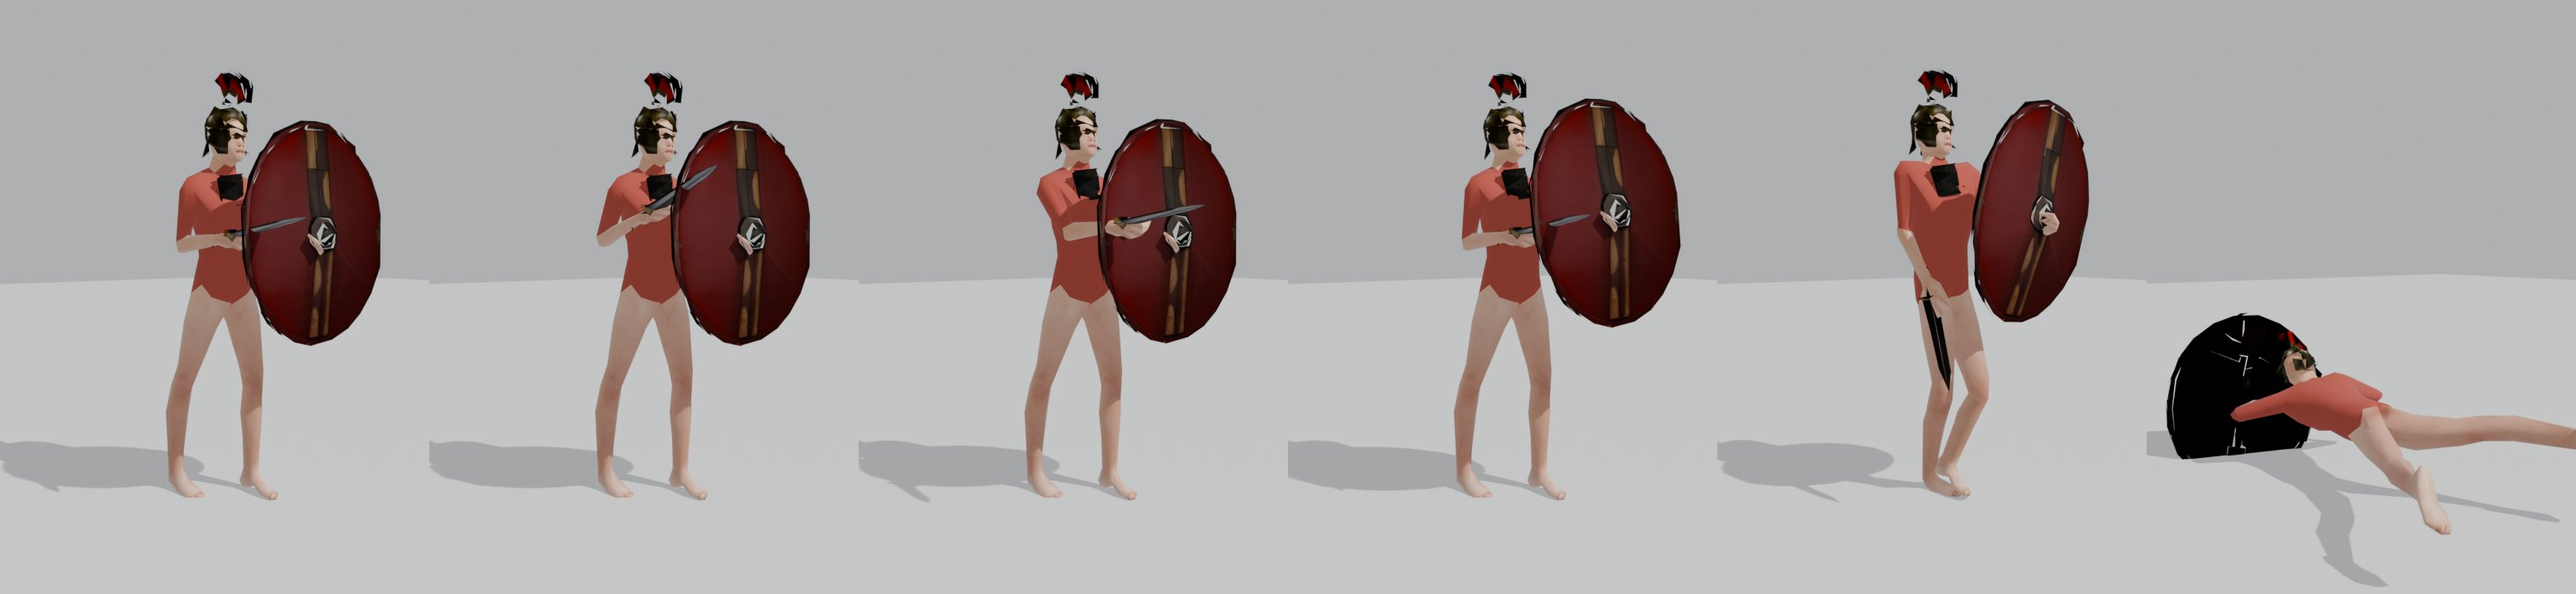
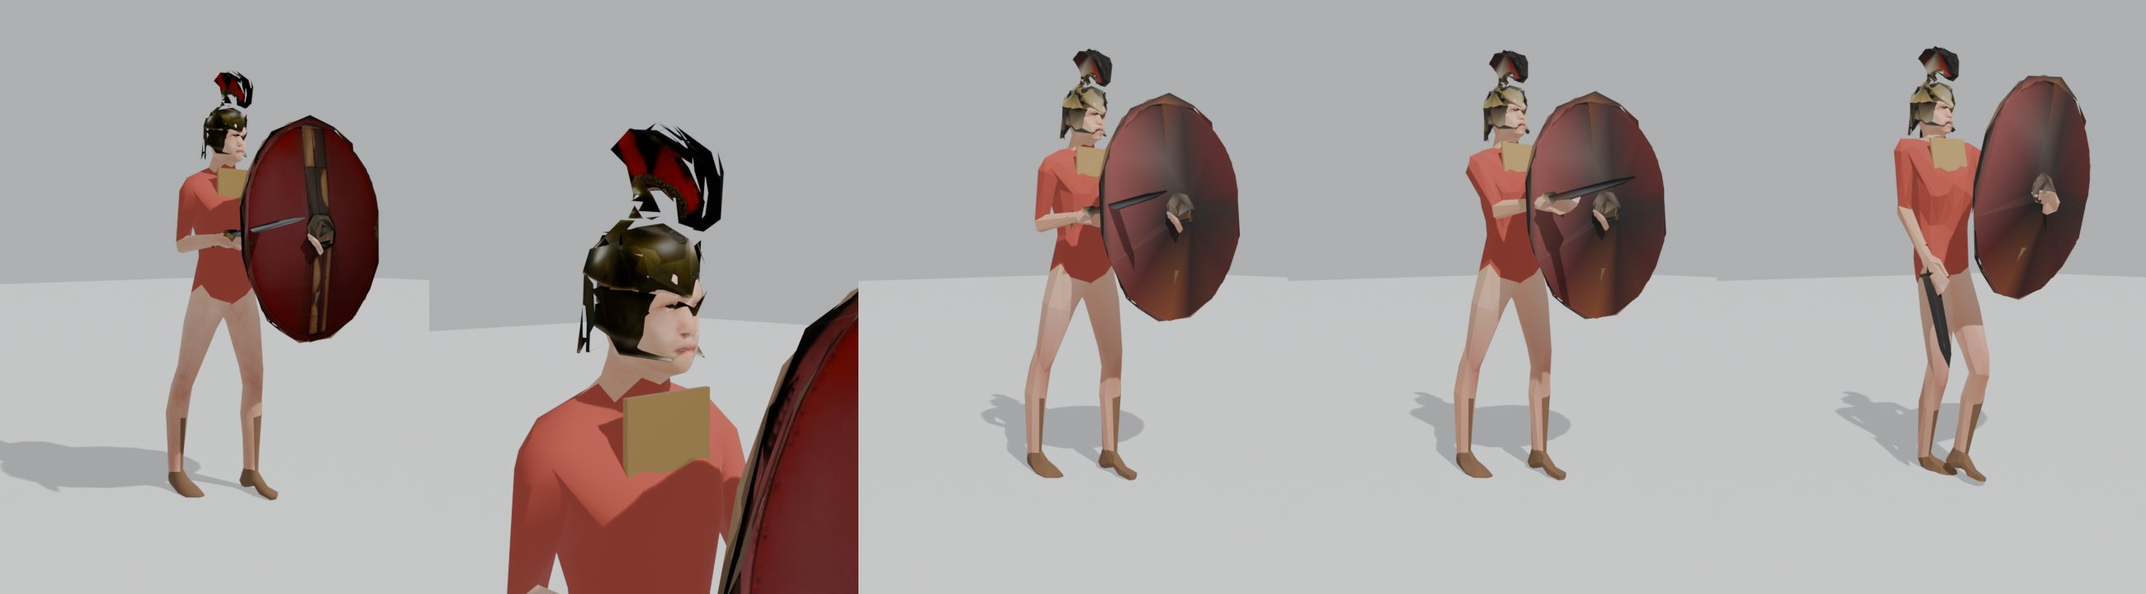
Figuren: Hastatus verfeinert, backen.py schreibt Farben je Ecke, Paket-Nachbau zur Prüfung

diff --git a/dev/pc/blender/soldat_bau.py b/dev/pc/blender/soldat_bau.py
@@ -51,6 +51,25 @@ for p in body.data.polygons:
         if all(body.data.vertices[i].co.z > 0.47 * hmax for i in vs):
             p.material_index = ti
 
+# Sandalen (Füße) und Haare (Oberkopf/Hinterkopf)
+def mat(name, rgb, metall=0.0, rau=0.85):
+    m = bpy.data.materials.new(name); m.use_nodes = True
+    b = m.node_tree.nodes["Principled BSDF"]
+    b.inputs["Base Color"].default_value = (*rgb, 1); b.inputs["Metallic"].default_value = metall
+    b.inputs["Roughness"].default_value = rau
+    return m
+body.data.materials.append(mat("sandale", (0.16, 0.08, 0.035))); si_ = len(body.data.materials) - 1
+body.data.materials.append(mat("haar", (0.035, 0.022, 0.015))); hi_ = len(body.data.materials) - 1
+FUSS = {"LeftFoot", "LeftToeBase", "RightFoot", "RightToeBase"}
+kopfv = [i for i, g in enumerate(haupt) if g in ("Head", "Neck1")]
+kopf_y = sum(body.data.vertices[i].co.y for i in kopfv) / max(1, len(kopfv))
+for p in body.data.polygons:
+    vs = p.vertices
+    if sum(1 for i in vs if haupt[i] in FUSS) >= len(vs) / 2:
+        p.material_index = si_
+    elif all(haupt[i] in ("Head",) for i in vs) and all(body.data.vertices[i].co.z > 0.935 * hmax and body.data.vertices[i].co.y > kopf_y - 0.004 * hmax for i in vs):
+        p.material_index = hi_
+
 # ---------- Pose-Werkzeug ----------
 for pb in arm.pose.bones:
     pb.rotation_mode = "QUATERNION"
@@ -205,7 +224,7 @@ haltung(BEREIT)
 koerper_P = np.array([(body.matrix_world @ v.co)[:] for v in body.evaluated_get(bpy.context.evaluated_depsgraph_get()).to_mesh().vertices])
 kopf_oben = koerper_P[:, 2].max()
 
-helm = lade("roh_44/teil_helm_A1_montefortino.glb", "teil_helm_A1_montefortino", 160, staender=0.09)
+helm = lade("roh_44/teil_helm_A1_montefortino.glb", "teil_helm_A1_montefortino", 260, staender=0.09)
 P, c, ax = pca(helm)
 z = P[:, 2]; zb = np.linspace(z.min(), z.max(), 21)
 bx = [np.ptp(P[(z >= zb[k]) & (z <= zb[k + 1])][:, 0]) if ((z >= zb[k]) & (z <= zb[k + 1])).sum() > 3 else 0 for k in range(20)]
@@ -222,14 +241,24 @@ print("HELM", round(s, 3), "Busch ab Schicht", kt)
 m = helm.matrix_world.copy(); helm.parent = arm; helm.parent_type = "BONE"; helm.parent_bone = "Head"
 bpy.context.view_layer.update(); helm.matrix_world = m
 
-brust = lade("roh_45/teil_ruest_A1_pectorale.glb", "teil_ruest_A1_pectorale", 40)
+# Pectorale: flache viereckige Bronzeplatte (≈ 20 × 20 cm, Funde 3. Jh. v. Chr.), selbst gebaut – 12 Dreiecke
+bpy.ops.mesh.primitive_cube_add(size=1)
+brust = bpy.context.active_object; brust.name = "teil_ruest_A1_pectorale"
+brust.scale = (0.2, 0.012, 0.2); bpy.ops.object.transform_apply(scale=True)
 s1 = kp("Spine1", 0.5)
 vorne = koerper_P[(np.abs(koerper_P[:, 2] - s1.z) < 0.06) & (np.abs(koerper_P[:, 0]) < 0.06)][:, 1].min()
-setze_teil(brust, (Vector((1, 0, 0)), Vector((0, -1, 0))), Vector((0, vorne - 0.012, s1.z)), 0.22, "Spine1")
+brust.location = (0, vorne - 0.008, s1.z); bpy.context.view_layer.update()
+m = brust.matrix_world.copy(); brust.parent = arm; brust.parent_type = "BONE"; brust.parent_bone = "Spine1"
+bpy.context.view_layer.update(); brust.matrix_world = m
+brust.data.materials.clear(); brust.data.materials.append(mat("bronze", (0.43, 0.27, 0.09), metall=0.8, rau=0.45))
 
-schild = lade("roh_45/teil_schild_A1_scutum.glb", "teil_schild_A1_scutum", 260)
+schild = lade("roh_45/teil_schild_A1_scutum.glb", "teil_schild_A1_scutum", 200)
 hand_l = kp("LeftHand", 0.5)
 setze_teil(schild, (Vector((0, 0, 1)), Vector((0, -1, 0))), hand_l + Vector((0.02, -0.07, 0.05)), 1.05, "LeftHand", buckel=True)
+schild.data.materials.append(mat("schild_innen", (0.15, 0.08, 0.04))); ii_ = len(schild.data.materials) - 1
+R3 = schild.matrix_world.to_3x3()
+for p in schild.data.polygons:
+    if (R3 @ p.normal).normalized().dot(Vector((0, -1, 0))) < -0.2: p.material_index = ii_
 
 schwert = lade("roh_45/teil_schwert_A1_gladius.glb", "teil_schwert_A1_gladius", 70)
 P, c, ax = pca(schwert)
@@ -289,6 +318,10 @@ if VORSCHAU:
         cam.location = (hw.x - 2.3, hw.y - 2.9, 1.25)
         sc.render.filepath = VORSCHAU.replace(".png", "_%d.png" % i)
         bpy.ops.render.render(write_still=True)
+    nimm("stehen_bereit"); sc.frame_set(1)
+    kz = arm.matrix_world @ arm.pose.bones["Head"].head
+    cam.location = (kz.x - 0.9, kz.y - 1.0, kz.z + 0.1); cam.rotation_euler = (math.radians(88), 0, math.radians(-42))
+    sc.render.filepath = VORSCHAU.replace(".png", "_kopf.png"); bpy.ops.render.render(write_still=True)
 
 # ---------- Export ----------
 nimm("stehen"); sc.frame_set(1)

diff --git a/dev/pc/blender/backen.py b/dev/pc/blender/backen.py
@@ -6,7 +6,8 @@
 #   anim: Float32-Textur, Breite = Knochen × 4 Pixel (RGBA), Höhe = Summe aller Clip-Bilder.
 #         Je Knochen und Bild eine 4×4-Skinmatrix (Weltpose × inverse Ruhepose), spaltenweise (wie three.js Matrix4.elements).
 #   Koordinaten: three.js (Y oben). Blender (Z oben) wird umgerechnet: (x, y, z) → (x, z, −y).
-#   koerper/teile: Ruhepose-Positionen, Normalen, Dreiecke, je Ecke 4 Knochen + 4 Gewichte (Teile: starr an einem Knochen).
+#   koerper/teile: Ruhepose-Positionen, Normalen, Dreiecke, je Ecke 4 Knochen + 4 Gewichte (Teile: starr an einem Knochen),
+#         'col' je Ecke RGB (u8, sRGB) aus Grundfarb-Textur bzw. Materialfarbe (Mittel der angrenzenden Flächenecken).
 #   Detailstufen: 'nah' (Original) und 'mittel' (Decimate auf ≈ 400 bzw. 27 % Dreiecke).
 # Mit --pruefen wird für jeden Clip ein Bild in Blender ausgewertet und mit der eigenen Rechnung verglichen (max. Abweichung in mm).
 import sys, os, json, base64, struct
@@ -40,6 +41,65 @@ def aktion_setzen(arm, act):
     ad.action = act
     if act is not None and hasattr(ad, 'action_slot') and getattr(act, 'slots', None) and len(act.slots):
         ad.action_slot = act.slots[0]
+
+
+_BILDER = {}
+
+
+def _lin2srgb(c):
+    return c * 12.92 if c <= 0.0031308 else 1.055 * c ** (1 / 2.4) - 0.055
+
+
+def _farbquelle(mat):
+    """Bild (Grundfarb-Textur) oder feste Farbe (sRGB 0..1) eines Materials."""
+    if mat is None or not mat.use_nodes:
+        c = mat.diffuse_color if mat else (0.7, 0.7, 0.7, 1)
+        return None, [_lin2srgb(c[i]) for i in range(3)]
+    nodes = mat.node_tree.nodes
+    bsdf = next((n for n in nodes if n.type == 'BSDF_PRINCIPLED'), None)
+    if bsdf:
+        inp = bsdf.inputs['Base Color']
+        if inp.is_linked:
+            stapel, gesehen = [inp.links[0].from_node], set()
+            while stapel:
+                n = stapel.pop()
+                if n.name in gesehen: continue
+                gesehen.add(n.name)
+                if n.type == 'TEX_IMAGE' and n.image: return n.image, None
+                for i in n.inputs:
+                    for l in i.links: stapel.append(l.from_node)
+        else:
+            return None, [_lin2srgb(inp.default_value[i]) for i in range(3)]
+    tex = next((n for n in nodes if n.type == 'TEX_IMAGE' and n.image), None)
+    return (tex.image, None) if tex else (None, [0.7, 0.7, 0.7])
+
+
+def _pixel(img, uv):
+    if img.name not in _BILDER:
+        import numpy as np
+        w, h = img.size
+        a = np.empty(w * h * 4, dtype=np.float32); img.pixels.foreach_get(a)
+        _BILDER[img.name] = (a.reshape(h, w, 4), w, h)
+    a, w, h = _BILDER[img.name]
+    x = int((uv[0] % 1.0) * (w - 1)); y = int((uv[1] % 1.0) * (h - 1))
+    return a[y, x, :3]
+
+
+def farben(ob, me):
+    """Eine Farbe je Ecke (sRGB, 0..255): Mittel der Grundfarbe aller angrenzenden Flächenecken."""
+    quellen = [_farbquelle(s.material) for s in ob.material_slots] or [(None, [0.7, 0.7, 0.7])]
+    uvl = me.uv_layers.active.data if me.uv_layers.active else None
+    summe = [[0.0, 0.0, 0.0, 0] for _ in me.vertices]
+    for p in me.polygons:
+        img, fest = quellen[min(p.material_index, len(quellen) - 1)]
+        for li in p.loop_indices:
+            vi = me.loops[li].vertex_index
+            c = _pixel(img, uvl[li].uv) if (img and uvl) else fest
+            s = summe[vi]; s[0] += c[0]; s[1] += c[1]; s[2] += c[2]; s[3] += 1
+    out = []
+    for s in summe:
+        k = max(1, s[3]); out += [max(0, min(255, round(255 * s[i] / k))) for i in range(3)]
+    return out
 
 
 def mesh_daten(ob, arm, bidx, starr=None, ziel_tris=None):
@@ -77,11 +137,12 @@ def mesh_daten(ob, arm, bidx, starr=None, ziel_tris=None):
     for t in me.loop_triangles:
         idx += list(t.vertices)
     ntri = len(me.loop_triangles)
+    col = farben(src, me)
     ev.to_mesh_clear()
     if tmp:
         bpy.data.objects.remove(tmp, do_unlink=True)
     return {'n': len(pos) // 3, 'tris': ntri, 'pos': b64f(pos), 'nrm': b64f(nrm), 'idx': b64u16(idx),
-            'si': b64u8(si), 'sw': b64u8(sw)}, (pos, si, sw)
+            'si': b64u8(si), 'sw': b64u8(sw), 'col': b64u8(col)}, (pos, si, sw)
 
 
 def backen(ein, aus, pruefen=False):

diff --git a/dev/pc/blender/paket_ansehen.py b/dev/pc/blender/paket_ansehen.py
@@ -1,0 +1,66 @@
+# Baut eine Figur aus einem Spielpaket (backen.py) nach – nur Ecken-Farben, keine Texturen – und rendert sie.
+# So sieht man, was das Spiel bekommt. Aufruf: blender -b -P paket_ansehen.py -- paket.json bild.png [clip] [bild]
+import bpy, sys, json, base64, struct, math
+from mathutils import Matrix
+
+a = sys.argv[sys.argv.index("--") + 1:]
+P = json.load(open(a[0])); OUT = a[1]
+CLIP = a[2] if len(a) > 2 else "stehen_bereit"; BILD = int(a[3]) if len(a) > 3 else 0
+f32 = lambda s: struct.unpack("<%df" % (len(base64.b64decode(s)) // 4), base64.b64decode(s))
+u8 = lambda s: base64.b64decode(s)
+u16 = lambda s: struct.unpack("<%dH" % (len(base64.b64decode(s)) // 2), base64.b64decode(s))
+
+bpy.ops.wm.read_factory_settings(use_empty=True)
+sc = bpy.context.scene
+anim = f32(P["anim"]["f32"]); W = P["anim"]["w"]; nb = len(P["bones"])
+clip = next(c for c in P["clips"] if c["n"] == CLIP)
+row = clip["row"] + min(BILD, clip["len"] - 1)
+def skin(b):
+    o = (row * W + b * 4) * 4
+    e = anim[o:o + 16]
+    return Matrix([[e[c * 4 + r] for c in range(4)] for r in range(4)])
+SK = [skin(b) for b in range(nb)]
+T = Matrix(((1, 0, 0, 0), (0, 0, -1, 0), (0, 1, 0, 0), (0, 0, 0, 1)))  # three.js -> Blender
+
+mat = bpy.data.materials.new("ecken"); mat.use_nodes = True
+nt = mat.node_tree; att = nt.nodes.new("ShaderNodeVertexColor"); att.layer_name = "col"
+nt.links.new(att.outputs["Color"], nt.nodes["Principled BSDF"].inputs["Base Color"])
+nt.nodes["Principled BSDF"].inputs["Roughness"].default_value = 0.85
+
+def baue(name, d, starr=None):
+    pos = f32(d["pos"]); idx = u16(d["idx"]); col = u8(d["col"])
+    si = u8(d["si"]); sw = u8(d["sw"]); n = d["n"]
+    vs = []
+    for i in range(n):
+        from mathutils import Vector
+        p = Vector((pos[3 * i], pos[3 * i + 1], pos[3 * i + 2], 1.0))
+        if starr is not None:
+            q = SK[starr] @ p
+        else:
+            q = Vector((0.0, 0.0, 0.0, 0.0))
+            for k in range(4):
+                if sw[4 * i + k]: q += (SK[si[4 * i + k]] @ p) * (sw[4 * i + k] / 255.0)
+            if not any(sw[4 * i:4 * i + 4]): q = p
+        q = T @ q
+        vs.append((q.x, q.y, q.z))
+    me = bpy.data.meshes.new(name)
+    me.from_pydata(vs, [], [tuple(idx[3 * t:3 * t + 3]) for t in range(len(idx) // 3)])
+    ca = me.color_attributes.new("col", "BYTE_COLOR", "POINT")
+    for i in range(n):
+        ca.data[i].color_srgb = (col[3 * i] / 255, col[3 * i + 1] / 255, col[3 * i + 2] / 255, 1)
+    me.materials.append(mat)
+    ob = bpy.data.objects.new(name, me); sc.collection.objects.link(ob)
+    return ob
+
+for k, v in P["koerper"].items(): baue(k, v["nah"])
+for k, v in P["teile"].items(): baue(k, v["nah"], starr=v["knochen"])
+cam = bpy.data.objects.new("cam", bpy.data.cameras.new("cam")); sc.collection.objects.link(cam); sc.camera = cam
+cam.location = (-2.3, -2.9, 1.15); cam.rotation_euler = (math.radians(86), 0, math.radians(-38)); cam.data.lens = 45
+sun = bpy.data.objects.new("sun", bpy.data.lights.new("sun", "SUN")); sc.collection.objects.link(sun)
+sun.rotation_euler = (math.radians(45), 0, math.radians(-20)); sun.data.energy = 3.5
+bpy.ops.mesh.primitive_plane_add(size=40)
+sc.world = bpy.data.worlds.new("w"); sc.world.use_nodes = True
+sc.world.node_tree.nodes["Background"].inputs[0].default_value = (0.55, 0.57, 0.6, 1)
+sc.render.engine = "BLENDER_EEVEE"; sc.render.resolution_x, sc.render.resolution_y = 520, 720
+sc.render.filepath = OUT; bpy.ops.render.render(write_still=True)
+print("PAKETBILD", OUT, CLIP, BILD)

diff --git a/dev/BACKLOG.md b/dev/BACKLOG.md
@@ -12,7 +12,7 @@
 - **Befund Werkzeug:** Blender 5.2 läuft headless in der Cloud (`pip install bpy`), Playwright-Tests laufen in der Cloud mit Chromium aus npm (`@sparticuz/chromium`, `PW_CHROMIUM=/tmp/chromium`). Skelette/Animationen/Backen können in der Cloud gebaut werden; PC nur noch für FLUX/XTTS/TRELLIS. Ausgangsdaten (Grundkörper, Bewegungen) brauchen Freigabe je Quelle.
 - **Schlacht-Profile (Sonnet, ungeprüft durch Moritz):** `dev/schlacht/` – 333 Truppenprofile (108 Sonder + 225 Grund), 20 Kit-Familien, 176 Charaktere (161 ohne Porträt → FLUX-Porträts nötig). Grob: M3 (Ostrom/Orient/Steppe, 67 Einheiten) und O1 (Ostasien, 48) sind zu breit für realistischen Stil → beim Rollout teilen. Befunde: sc_pachacutec_x1 zeigt römischen Soldaten; Dschingis Khan doppelt in SC_LEG (mongolen/temujin); zeitlich unpassende Figuren im Szenario kastilien (Hardrada, Håkon Jarl, Moctezuma, Atahualpa) prüfen; keine österreichische/schwedische Einheit für Leibwachen.
 - **29.10. abends:** Jobs 40–43 laufen in der Warteschlange (Repo vorher per Pull auf v218). Antike-Kits A1–A8 von Moritz freigegeben → **Job 44_ausruestung_antike** (36 FLUX-Vorlagen, 18 feste Teile, Skript `dev/pc/ausruestung_antike.js`, Namen `teil_<art>_<kit>_<name>`, Budget je 1500/Textur 512 in `3d/a5_budget.json`, Sicherung `a5_budget_vor44.json`). Danach: Auswahl a/b → `3d/vorlagen_44/<id>.png`, dann `3d/44_ok.txt` anlegen; `3d_44.bat` (Moritz startet per Doppelklick) wartet auf beides und baut nach `3d/roh_44`. Nicht über TRELLIS, sondern Blender: Speer, Pilum, Sarissa, Wurfspeer, Schleuder, Treiberstachel (lang/dünn) sowie Kettenhemd, Linothorax, Tunika, Elefantendecke (bewegen sich mit). **Stand 21:30:** Jobs 40–44 fertig. Job 44 ausgewählt (Bogen `warteschlange/44_ausruestung_antike/bogen.jpg`, `auswahl.txt`): 13 Teile → TRELLIS fertig (21:26, 5,6 min, `3d/roh_44/*.glb`, 856–1997 Dreiecke; Optik nicht angesehen, r3-Nachbearbeitung offen). Viele Vorlagen stehen auf Museumsständern → nach `sockel.py` Ständerstangen in Blender entfernen. Falsch kamen 5 Teile (A2-Helm korinthisch statt Kegel, Pectorale als Weste, Scutum rund, Gladius mit Parierstange, Falcata gerade) → **Job 45** in der Warteschlange seit 21:30 (`warteschlange/45_ausruestung_neu`, 15 Bilder, `node dev/pc/ausruestung_antike.js <items.json> 45`); danach eigenes `3d_45.bat`. Job 43: `pruef.json` aus Job 28 prüft ALLE alten Clips (525, 108 neu gesprochen nur im Job-Ordner, nicht eingebaut) und läuft vor dem Sprechen → die 7 Hannibal-Clips sind **ungeprüft**; für neue Clips eigene Prüfung nötig. Hinweis: `3d_*.bat` per PowerShell `Start-Process` gestartet fand `environment.bat` nicht – per `cmd /c` oder Doppelklick starten. Versehen: `imperium-bilder\items.json` (alte Datei vom 18.10. für run.bat/probe*.bat, Inhalt unbekannt) wurde mit der Teile-Liste überschrieben – Skripte von damals nicht mehr nutzen.
-- **29.10. 22 Uhr – Figuren baut Claude am PC** (Moritz: „am PC gebaut, nicht aus dem Netz gezogen, aber durch dich“; MPFB + CMU erlaubt). Blender 5.2.3 portable + MPFB 2.0.18 + MakeHuman-Grundpaket installiert, Körpertest headless ok, Skelett `cmu_mb` (31 Knochen, CMU-Namen) gewählt. Job 45 + TRELLIS 5 Teile fertig (`3d/roh_45`, Falcata-Klinge eher Säbel). Alle 18 Antike-Teile roh vorhanden. Details: `dev/pc/figuren_bauen.md` Abschnitt 0. 30.10. früh: **erster vollständiger Hastatus** (soldat_bau.py, 13 Clips, pruefen ok, gebacken 1,29 MB, Bild dev/pc/blender/hastatus_test.jpg). 23:15 erster grober Hastatus (Körper + CMU-Schwertkampf + Helm/Scutum/Gladius/Brustplatte an Knochen, `dev/pc/blender/soldat_teile.py`, Bild `soldat_test.jpg`; Schild zu groß, Lage von Hand, Tunika fehlt). 23 Uhr: 45 CMU-Aufnahmen geladen (Liste dev/pc/blender/cmu_auswahl.tsv; Reiten, Speer, Schild fehlen bei CMU → keyframen). 22:40: CMU Subject 02 geladen, Gehen + Schwertkampf auf den Körper übertragen (Bild `dev/pc/blender/cmu_test.jpg`). Nächstes: Stehen/Treffer/Fallen-Aufnahmen suchen, Schleifen schneiden, `sk_mensch.glb` mit 3 Körpern bauen, `pruefen.py`/`backen.py` daran testen, r3 für die 18 Teile.
+- **29.10. 22 Uhr – Figuren baut Claude am PC** (Moritz: „am PC gebaut, nicht aus dem Netz gezogen, aber durch dich“; MPFB + CMU erlaubt). Blender 5.2.3 portable + MPFB 2.0.18 + MakeHuman-Grundpaket installiert, Körpertest headless ok, Skelett `cmu_mb` (31 Knochen, CMU-Namen) gewählt. Job 45 + TRELLIS 5 Teile fertig (`3d/roh_45`, Falcata-Klinge eher Säbel). Alle 18 Antike-Teile roh vorhanden. Details: `dev/pc/figuren_bauen.md` Abschnitt 0. 30.10.: Hastatus verfeinert (Sandalen, Bronze-Pectorale selbst gebaut, Busch sitzt, Schild innen Leder; backen.py schreibt Farben je Ecke, Nachbau aus Paket geprüft). 30.10. früh: **erster vollständiger Hastatus** (soldat_bau.py, 13 Clips, pruefen ok, gebacken 1,29 MB, Bild dev/pc/blender/hastatus_test.jpg). 23:15 erster grober Hastatus (Körper + CMU-Schwertkampf + Helm/Scutum/Gladius/Brustplatte an Knochen, `dev/pc/blender/soldat_teile.py`, Bild `soldat_test.jpg`; Schild zu groß, Lage von Hand, Tunika fehlt). 23 Uhr: 45 CMU-Aufnahmen geladen (Liste dev/pc/blender/cmu_auswahl.tsv; Reiten, Speer, Schild fehlen bei CMU → keyframen). 22:40: CMU Subject 02 geladen, Gehen + Schwertkampf auf den Körper übertragen (Bild `dev/pc/blender/cmu_test.jpg`). Nächstes: Stehen/Treffer/Fallen-Aufnahmen suchen, Schleifen schneiden, `sk_mensch.glb` mit 3 Körpern bauen, `pruefen.py`/`backen.py` daran testen, r3 für die 18 Teile.
 - **Befund Hannibal-Code:** Startheer in Latium und Hook 9 heißen beide „Publius Cornelius Scipio“ (Vater/Sohn) → umbenennen beim Hannibal-Paket.
 
 ## ÜBERGABE 28.10. (älter)

diff --git a/dev/pc/blender/README.md b/dev/pc/blender/README.md
@@ -6,9 +6,14 @@ Regeln: `../figuren_bauen.md`. Gemeinsame Konstanten (Clip-Namen, Grenzen): `reg
 |---|---|---|---|
 | `pruefen.py` | Figur gegen die Regeln prüfen (Skelett, Knochenzahl, Bindung, Teile, Dreiecke, Höhe, Füße, Clips) | `blender -b -P pruefen.py -- sk_mensch.glb` | `python3 pruefen.py sk_mensch.glb` |
 | `backen.py` | Spielpaket bauen: Animations-Textur (Layout wie Prototyp `dev/proto/schlacht_p0.html`), Körper nah/mittel, Teile | `blender -b -P backen.py -- sk_mensch.glb sk_mensch.json --pruefen` | `python3 backen.py sk_mensch.glb sk_mensch.json --pruefen` |
+| `paket_ansehen.py` | Figur nur aus dem Spielpaket nachbauen (Ecken-Farben, eine Pose) und rendern = Spielsicht | `blender -b -P paket_ansehen.py -- paket.json bild.png [clip] [bild]` | – |
+| `soldat_bau.py` | kompletten Soldaten bauen (MPFB-Körper, Haut, Tunika, Sandalen, Teile, 13 Clips) und als .glb exportieren | `blender -b -P soldat_bau.py -- k_A1_hastatus.glb [vorschau.png]` | – |
+| `cmu_lib.py` | CMU ASF/AMC lesen und auf cmu_mb übertragen | (Modul) | – |
 | `testfigur.py` | einfache Testfigur (5 Knochen, 2 Clips) zum Prüfen der Skripte | – | `python3 testfigur.py test.glb` |
 
 `--pruefen` rechnet für jeden Clip ein Bild selbst aus (Skinmatrix × Ruheposition) und vergleicht mit Blenders eigener Verformung.
 
 **Stand 29.10.:** Mit der Testfigur in der Cloud geprüft (Blender 5.2.3): `pruefen.py` „in Ordnung“, `backen.py --pruefen` Abweichung 0,0 mm bei bis zu 47 cm Bewegung.
 Nicht getestet: echte MPFB-Figur, Blender 4.x am PC, Einlesen des Pakets im Spiel (Ladecode kommt mit Schlacht-Paket S3), Decimate an großen Meshes.
+
+**Stand 30.10.:** `backen.py` schreibt jetzt Farben je Ecke (`col`, RGB u8, aus Grundfarb-Textur oder Materialfarbe). Hastatus (Kit A1) gebaut, `pruefen.py` in Ordnung, gebacken 1,3 MB, max. Abweichung 9,8 mm; Nachbau aus dem Paket (`paket_ansehen.py`) zeigt Farben richtig (Bild `hastatus_test.jpg`). Der Schlacht-Prototyp liest `col` noch nicht (kommt mit S3).
